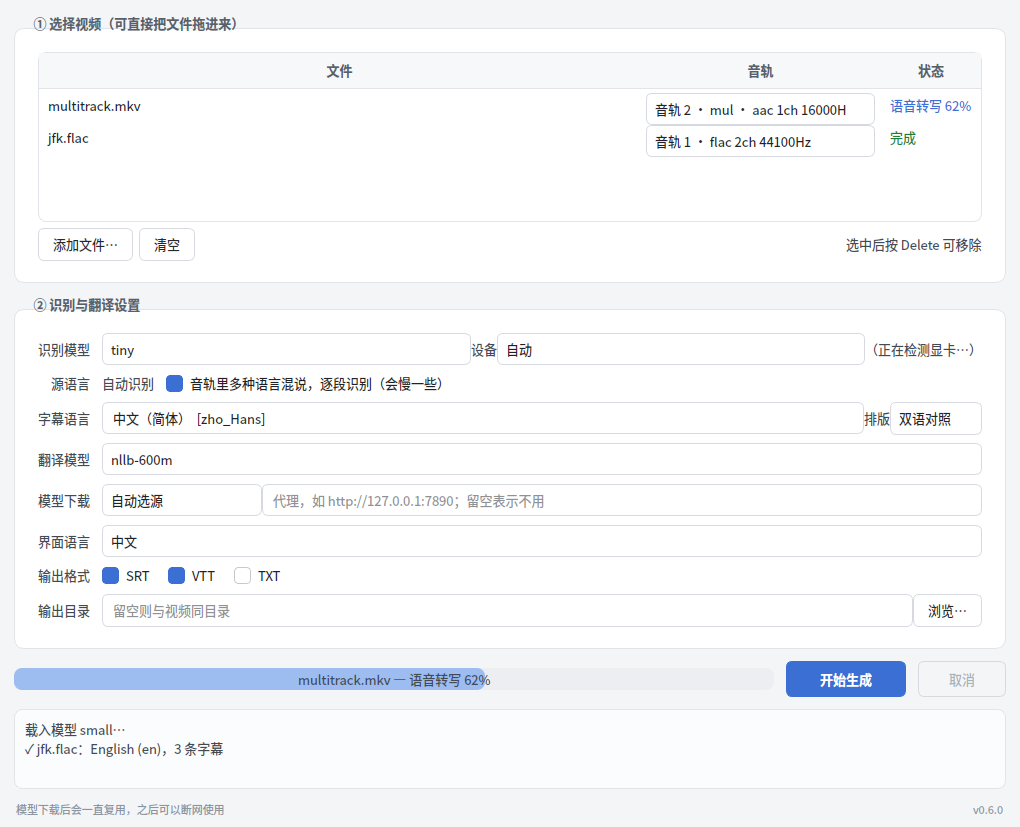
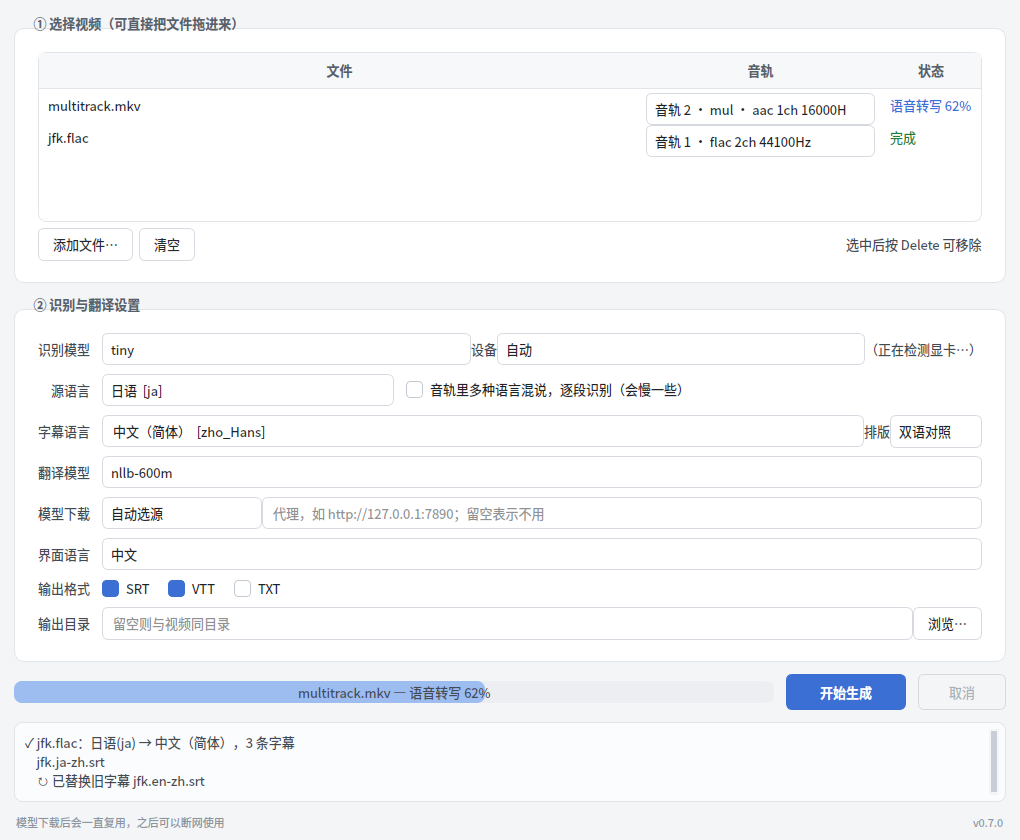
docs: 说明字幕文件叫什么名字、什么时候会被覆盖
命名规则以前哪儿都没写，而「已有字幕不覆盖」的疑问正是从这儿来的：README 中英各加
一节讲清 `视频名.语种.格式` 三种排版下的后缀，以及为什么双语的旧文件会被替换、单段
的不会。design.md 记下这个取舍是怎么权衡的。

截图跟着界面走，所以顺手做成脚本，免得下次又手工截一张。

Claude-Session: https://claude.ai/code/session_01JmKAdXbtck3X7fQ4d2TnqL

diff --git a/scripts/make_screenshot.py b/scripts/make_screenshot.py
@@ -1,0 +1,80 @@
+"""重新生成 README 里的界面截图（中英各一张）。
+
+界面一改截图就过期，所以留成脚本而不是手工截：
+
+    QT_QPA_PLATFORM=offscreen python scripts/make_screenshot.py
+
+文件列表和音轨描述用的是 tests/data 里的真素材，不编造。
+"""
+
+import os
+import sys
+
+sys.path.insert(0, os.path.join(os.path.dirname(__file__), "..", "src"))
+
+from PySide6.QtWidgets import QApplication
+
+from subtitle_tool import gui, i18n
+from subtitle_tool.audio import probe_tracks
+from subtitle_tool.i18n import t
+from subtitle_tool.pipeline import Result
+
+ROOT = os.path.join(os.path.dirname(__file__), "..")
+DATA = os.path.join(ROOT, "tests", "data")
+SIZE = (1020, 827)
+
+
+def compose(language: str, path: str):
+    i18n.use(language)
+    window = gui.MainWindow()
+    window.resize(*SIZE)
+    window._retranslate()
+
+    for name in ("multitrack.mkv", "jfk.flac"):
+        window._add_row(os.path.join(DATA, name), probe_tracks(os.path.join(DATA, name)))
+    window.table.cellWidget(0, 1).setCurrentIndex(1)  # 多音轨片源选第 2 条
+    window._set_status(0, "{stage} {percent:.0f}%", stage=t("语音转写"), percent=62)
+
+    # 显示的界面语言要和这张图本身的语言一致；signal 一响就会去写 settings.json，挡掉
+    window.ui_language.blockSignals(True)
+    window.ui_language.setCurrentIndex(window.ui_language.findData(language))
+    window.ui_language.blockSignals(False)
+
+    window.source_language.setCurrentIndex(window.source_language.findData("ja"))
+    window.target.setCurrentIndex(window.target.findData("zho_Hans"))
+    window.layout_mode.setCurrentIndex(window.layout_mode.findData("bilingual"))
+    window.formats["vtt"].setChecked(True)
+
+    window.bar.setValue(62)
+    window.bar.setFormat(f"multitrack.mkv — {t('语音转写')} %p%")
+    tracks = probe_tracks(os.path.join(DATA, "jfk.flac"))
+    window._on_file_done(
+        1,
+        Result(
+            "jfk.flac",
+            tracks[0],
+            "ja",
+            [(0.0, 11.0, "ja")],
+            [None] * 3,
+            ["jfk.ja-zh.srt"],
+            ["jfk.en-zh.srt"],
+        ),
+        None,
+    )
+
+    window.show()
+    QApplication.processEvents()
+    window.grab().save(path)
+    print(f"{path} 已更新")
+
+
+def main():
+    app = QApplication([])
+    app.setStyle("Fusion")
+    app.setStyleSheet(gui.STYLE)
+    compose("zh", os.path.join(ROOT, "docs", "screenshot.png"))
+    compose("en", os.path.join(ROOT, "docs", "screenshot.en.png"))
+
+
+if __name__ == "__main__":
+    main()

diff --git a/README.en.md b/README.en.md
@@ -8,7 +8,8 @@ the language you want. Everything runs locally — nothing is uploaded.
 
 - 🎬 **Any video** — MP4 / MKV / MOV / AVI / TS / WebM…, and plain audio files too
 - 🔊 **Multi-track** — lists every audio track in the source (with its language tag) so you can pick
-- 🌍 **99 languages** — detected automatically; a track that mixes languages is labelled segment by segment
+- 🌍 **99 languages** — detected automatically, or pin the source language yourself when the
+  guess goes wrong; a track that mixes languages is labelled segment by segment
 - 🈯 **Any target language** — 99 of them, written out as translation / source / both
 - 📄 **SRT / VTT / TXT**, batch processing, cancel at any time
 - 🌐 **Chinese and English interface** — follows your system language, switchable at any time
@@ -21,6 +22,8 @@ the language you want. Everything runs locally — nothing is uploaded.
    [Releases](https://github.com/liny90626/subtitle_tool/releases)
 2. Unpack it anywhere and double-click `SubtitleTool.exe` — no installation needed
 3. Drop your videos into the window → pick the track and target language → click Start
+   (if you know what the video is in, switch "Source language" from "Auto-detect" to it —
+   the result is steadier that way)
 
 The first run downloads the models (75MB–1.6GB for the speech model depending on the size
 you pick, 620MB for the translation model) and reuses them from then on; by default they
@@ -72,6 +75,25 @@ pip install nvidia-cublas-cu12 nvidia-cudnn-cu12
 Copy the DLLs from those two packages next to the executable, or run from source as shown
 below. Leave "Device" on "Auto" — it falls back to the CPU when no GPU is found.
 
+## What the subtitle files are called
+
+Output files are named `video.language.format`, and the language suffix follows the layout:
+
+| Layout | File name | The suffix is |
+| --- | --- | --- |
+| Translation only | `movie.zh.srt` | the target language |
+| Source only | `movie.ja.srt` | the source language |
+| Both | `movie.ja-zh.srt` | source-target |
+
+A file of the same name is always overwritten. In the bilingual layout, if the previous run
+guessed the source language wrong and left a `movie.en-zh.srt` behind, this run replaces that
+one too instead of piling up a second subtitle — the log says which file it replaced.
+
+The "source only" name carries a single language, and `movie.zh.srt` could equally be a
+**source** transcript detected as Chinese or a **translation** into Chinese — so old files are
+left alone there rather than risking the wrong deletion. Pinning the source language is the
+easiest way to avoid ending up with two.
+
 ## Models will not download
 
 `ConnectTimeout: [WinError 10060]`, or "cannot find the appropriate snapshot folder", both
@@ -105,6 +127,9 @@ subtitle-tool video.mkv --list-tracks
 # Use the second track, produce Chinese subtitles
 subtitle-tool video.mkv --track 2 --target zh
 
+# The video is in Japanese — do not make it guess
+subtitle-tool video.mkv --language ja --target zh
+
 # A track that mixes languages, bilingual SRT + VTT
 subtitle-tool video.mkv --multi-language --target zh --layout bilingual --format srt,vtt
 
@@ -120,7 +145,8 @@ subtitle-tool video.mp4 --target zh --lang en
 ```
 
 `--target` accepts `zh`, `zho_Hans`, `Chinese (Simplified)` and `中文（简体）`;
-`--list-languages` prints every choice.
+`--language` takes Whisper codes only (`ja`, `en`, `zh`…) and defaults to auto-detection.
+`--list-languages` prints the choices for both.
 
 `SubtitleTool.exe` from the portable build *is* the command line when given arguments, so
 you do not need a separate Python install:

diff --git a/README.md b/README.md
@@ -7,7 +7,7 @@
 
 - 🎬 **任意视频** — MP4 / MKV / MOV / AVI / TS / WebM…，也直接吃音频文件
 - 🔊 **多音轨** — 列出片源里的每条音轨（含语言标签），按需选择
-- 🌍 **多语种** — 自动识别 99 种语言；一条音轨里多语言混说也能逐段识别
+- 🌍 **多语种** — 自动识别 99 种语言，也可以手动锁定源语言避免认错；一条音轨里多语言混说还能逐段识别
 - 🈯 **任选目标语言** — 99 种目标语言，可输出译文 / 原文 / 双语对照
 - 📄 **SRT / VTT / TXT**，批量处理，可随时取消
 - 🌐 **中英双语界面** — 默认跟随系统语言，设置里随时切换
@@ -20,6 +20,7 @@
    `subtitle-tool-windows-x64.zip`
 2. 解压到任意目录，双击 `SubtitleTool.exe`（免安装）
 3. 把视频拖进窗口 → 选音轨和目标语言 → 点「开始生成」
+   （知道片子是什么语言的话，把「源语言」从「自动识别」改成对应语种，结果更稳）
 
 首次运行会自动下载模型（识别模型按所选大小 75MB~1.6GB，翻译模型 620MB），
 之后一直复用，默认存放在 `%USERPROFILE%\.cache\huggingface`。
@@ -67,6 +68,24 @@ pip install nvidia-cublas-cu12 nvidia-cudnn-cu12
 把这两个包安装目录里的 DLL 放到程序目录，或改用下面的源码方式运行。
 设置里的「设备」保持「自动」即可，检测不到显卡会自动退回 CPU。
 
+## 字幕文件叫什么名字
+
+输出文件名是 `视频名.语种.格式`，语种后缀跟着「排版」走：
+
+| 排版 | 文件名 | 语种后缀是 |
+| --- | --- | --- |
+| 只要译文 | `movie.zh.srt` | 目标语言 |
+| 只要原文 | `movie.ja.srt` | 源语言 |
+| 双语对照 | `movie.ja-zh.srt` | 源语言-目标语言 |
+
+同名文件一律直接覆盖。双语对照下如果上次把源语言识别错了（留下一份
+`movie.en-zh.srt`），这次的结果会把那份旧的一并替换掉，不会在目录里堆两份字幕，
+日志里写明替换了哪个。
+
+「只要原文」的文件名里只有一个语种，光看名字分不出 `movie.zh.srt` 是识别成中文的
+**原文**字幕还是译成中文的**译文**字幕，所以旧文件一概不动，免得误删。
+想彻底避免多出一份，把「源语言」锁死是最省事的办法。
+
 ## 模型下载不动？
 
 报 `ConnectTimeout: [WinError 10060]`，或者「cannot find the appropriate snapshot
@@ -95,6 +114,9 @@ subtitle-tool video.mkv --list-tracks
 # 用第 2 条音轨，生成中文字幕
 subtitle-tool video.mkv --track 2 --target zh
 
+# 片子是日语，别让它自己猜
+subtitle-tool video.mkv --language ja --target zh
+
 # 多语言混说的音轨，输出中英双语 SRT + VTT
 subtitle-tool video.mkv --multi-language --target zh --layout bilingual --format srt,vtt
 
@@ -109,8 +131,9 @@ subtitle-tool video.mp4 --target zh --proxy http://127.0.0.1:7890
 subtitle-tool video.mp4 --target zh --lang en
 ```
 
-`--target` 接受 `zh` / `zho_Hans` / `中文（简体）` / `Chinese (Simplified)` 几种写法，
-`--list-languages` 可以看全部可选语言。
+`--target` 接受 `zh` / `zho_Hans` / `中文（简体）` / `Chinese (Simplified)` 几种写法；
+`--language` 只认 Whisper 码（`ja` / `en` / `zh`…），不给就自动识别。
+`--list-languages` 会把两边可选的值都列出来。
 
 免安装包里的 `SubtitleTool.exe` 带参数运行时就是命令行，不用另外装 Python：
 

diff --git a/docs/design.md b/docs/design.md
@@ -363,7 +363,28 @@ Linux 上随便跑，Windows 上转写长片（窗口大、批也大，调用链
 这件事也说明子进程隔离本身是值的：它没有让崩溃消失，但**把一次"界面凭空消失"变成了一行
 带退出码的日志**，而那行退出码就是答案。
 
-### 3.14 其它
+### 3.14 旧字幕为什么「没被覆盖」，以及只敢删哪一种
+
+用户报「已有字幕不会被覆盖」。查下来写文件用的是 `open(path, "w")`，同名一定截断重写，
+实测也确实覆盖——所以问题不在覆盖，**在文件名会变**。
+
+文件名是 `视频名.语种.格式`，语种后缀跟排版走：只要译文用目标语种（固定），只要原文用
+源语种，双语用 `源-目标`。后两种里源语种是**自动识别出来的**：上次认成英语写了
+`movie.en-zh.srt`，这次认成日语写 `movie.ja-zh.srt`，两份并排躺着，播放器可能还优先
+挑中旧的那份——看着就像没覆盖，而且日志里一条错都没有，因为确实什么都没出错。
+
+治本的是让源语种不再漂移，所以加了手动锁定（界面「源语言」/ 命令行 `--language`）。
+治标的是写出前把上一次留下的那份删掉——但**只对 `源-目标` 这种双语文件名动手**：
+
+单段的文件名认不出来历。`movie.zh.srt` 既可能是识别成中文的原文字幕，也可能是译成中文的
+译文字幕，光看名字分不清；真去删，代价是把用户等了半小时的东西弄没。`源-目标` 不一样：
+带连字符的两段式只有本工具会写，`<其它源>-zh` 一定是同一个视频、同一套设置、只是上次
+识别结果不同的那一份，删它没有歧义。
+
+候选文件名是按本工具自己的命名规则逐个拼出来再检查存在性的，不做通配符匹配——`movie.srt`、
+`movie.chs.srt` 这类别处来的字幕拼不出来，碰不到。删掉哪些会写进日志和界面，不闷声干活。
+
+### 3.15 其它
 
 - `condition_on_previous_text=False`：长视频一旦出现幻觉会以上文为条件自我强化成复读，
   牺牲少量上下文连贯性换稳定性
